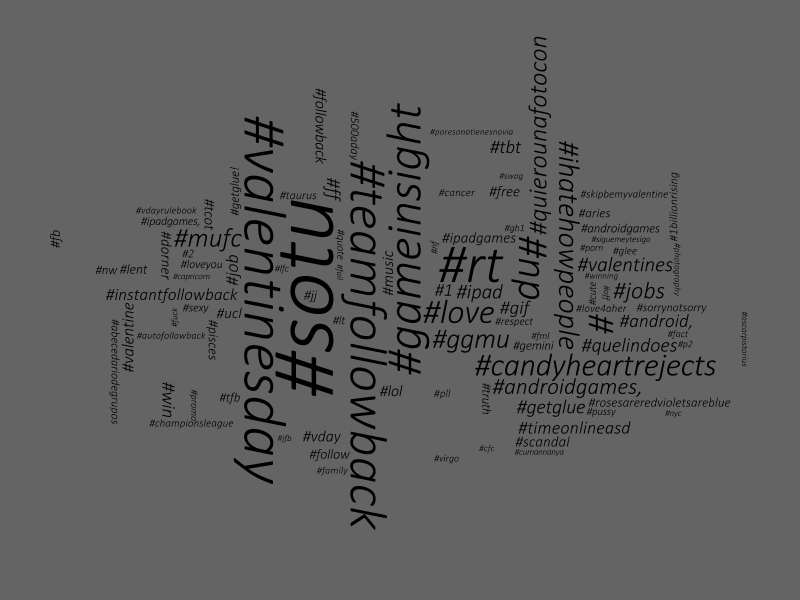
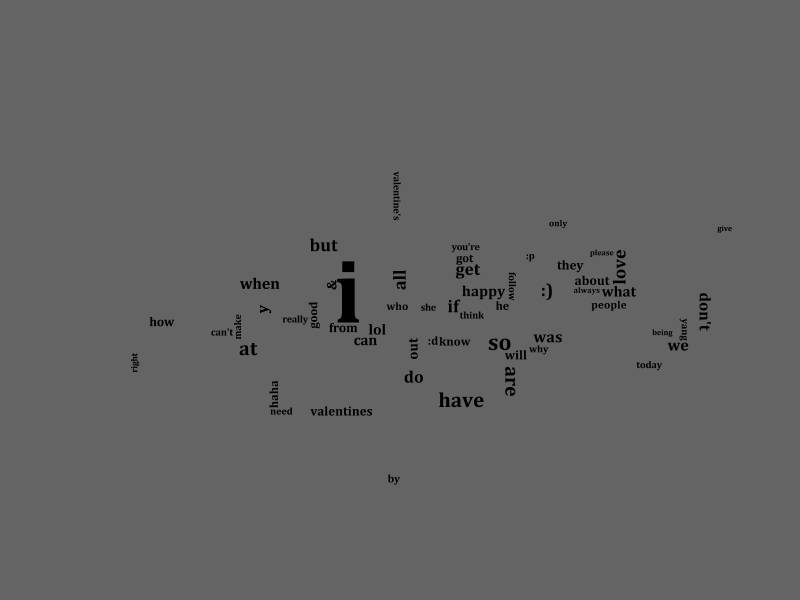
TrendViewer Working

Changed region(s): [[0.125, 0.06, 0.9062, 0.87], [0.0625, 0.39, 0.0938, 0.42]]

diff --git a/TweetTrendViewer/src/scott/WordCramEngine.java b/TweetTrendViewer/src/scott/WordCramEngine.java
@@ -1,7 +1,6 @@
 package scott;
 
 /*
- Copyright 2010 Daniel Bernier
 
  Licensed under the Apache License, Version 2.0 (the "License");
  you may not use this file except in compliance with the License.
@@ -60,17 +59,6 @@ public class WordCramEngine extends PApplet {
 	//PGraphics pg;
 	private void initWordCram() {
 		background(100);
-		/*Word[] alphabet = new Word[] {
-				  new Word("A", 8000), new Word("B", 4000), new Word("C", 200), 
-				  new Word("D", 23), new Word("E", 22), new Word("F", 21),
-				  new Word("G", 20), new Word("H", 19), new Word("I", 18),
-				  new Word("J", 17), new Word("K", 16), new Word("L", 15),
-				  new Word("M", 14), new Word("N", 13), new Word("O", 12),
-				  new Word("P", 11), new Word("Q", 10), new Word("R", 9),
-				  new Word("S", 8),  new Word("T", 7),  new Word("U", 6),
-				  new Word("V", 5),  new Word("W", 4),  new Word("X", 3),
-				  new Word("Y", 2),  new Word("Z", 1)
-				};*/
 		ResultReader r = new ResultReader();
 		r.getWordCounts();
 		Word[] alphabet= r.getWords();
@@ -156,15 +144,4 @@ public class WordCramEngine extends PApplet {
 		}
 	}
 	
-	private String textFilePath() {
-		return "example/tao-te-ching.txt";
-	}
-	
-	private Word[] alphabet() {
-		Word[] w = new Word[26];
-		for (int i = 0; i < w.length; i++) {
-			w[i] = new Word(new String(new char[]{(char)(i+65)}), 26-i);
-		}
-		return w;
-	}
 }

diff --git a/TweetTrendViewer/src/code/TweetCloud.java b/TweetTrendViewer/src/code/TweetCloud.java
@@ -10,7 +10,11 @@ import org.mcavallo.opencloud.formatters.*;
 import scott.ResultReader;
 
 
-public class TweetCloud {
+/**
+ * See WordVisualizer.java for a working visualization tool.
+ */
+
+/*public class TweetCloud {
 	private Cloud cloud;
 	private ArrayList<Tag> tags;
 	
@@ -40,4 +44,4 @@ public class TweetCloud {
 //		Tag tag = new Tag(word, weight);	
 //	}
 
-}
+}*/

diff --git a/TweetTrendViewer/src/code/Test.java b/TweetTrendViewer/src/code/Test.java
@@ -5,7 +5,7 @@ import javax.swing.*;
 public class Test {
 
 	public static void main(String args[]){
-		TweetCloud t = new TweetCloud();
+	//	TweetCloud t = new TweetCloud();
 		
 	}
 	
